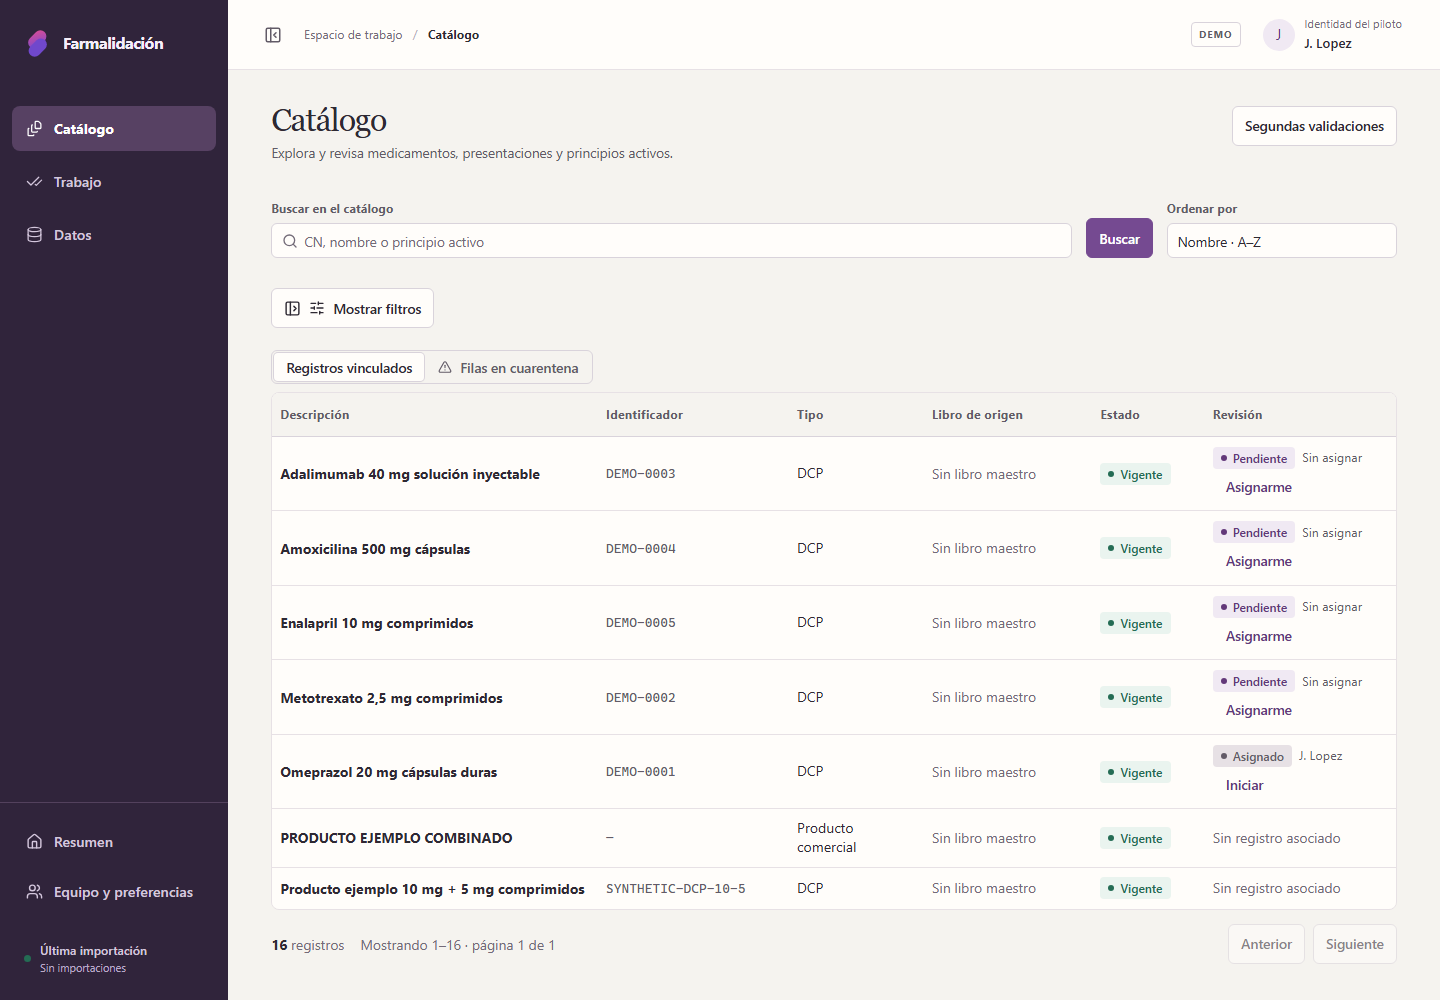
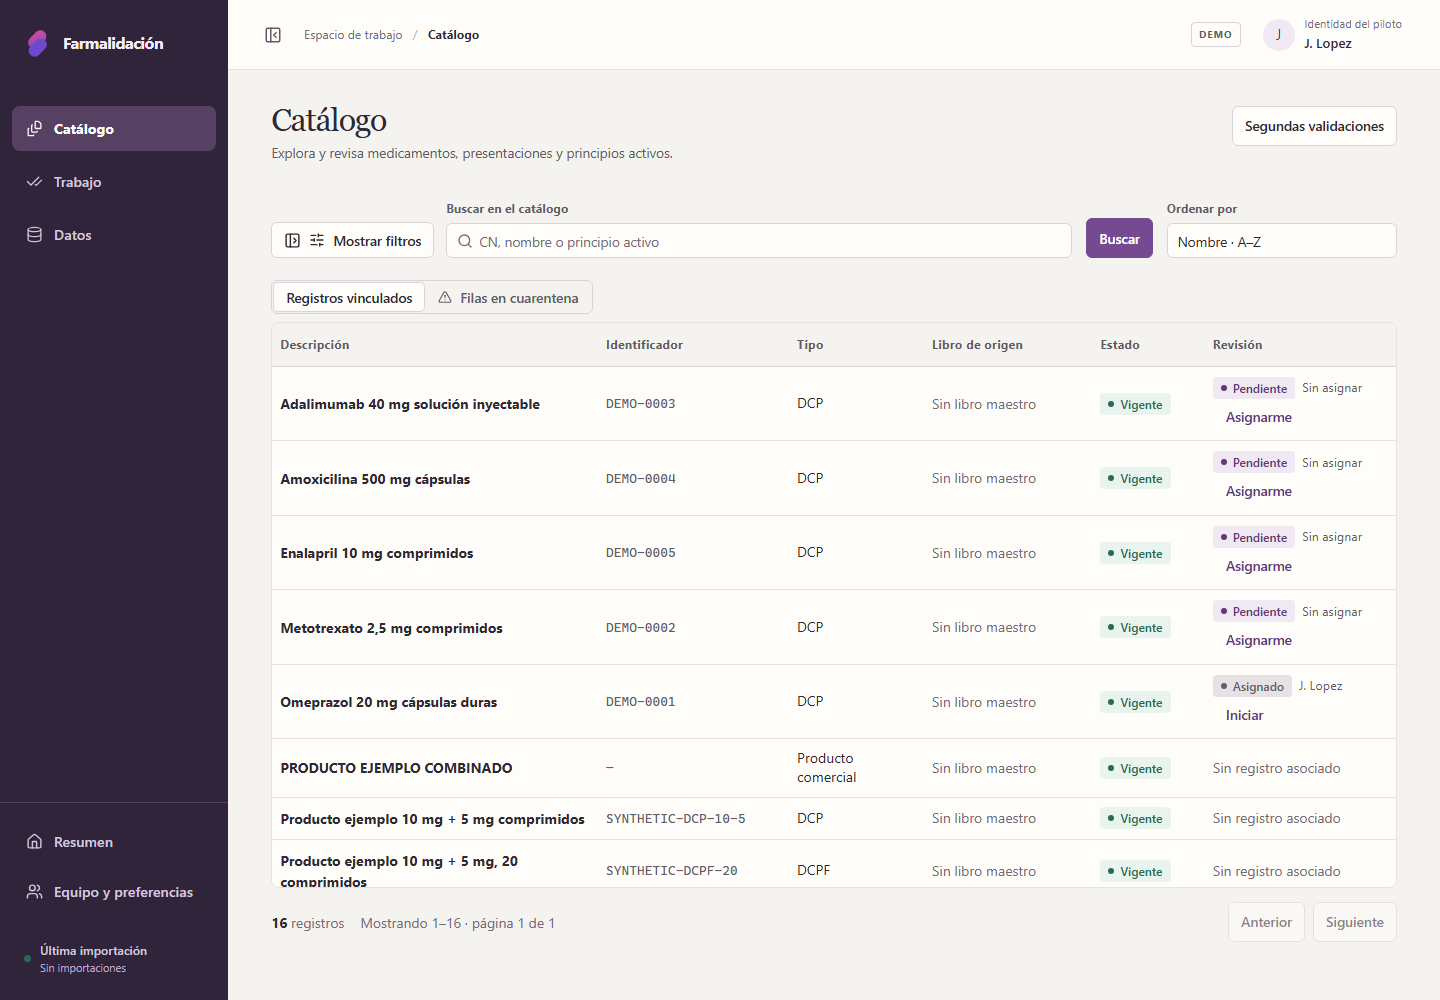
Integrar «Mostrar filtros» en la barra y vigilar los tokens
Con barra de búsqueda, el botón para abrir filtros se coloca en ella:
una sola fila de controles en lugar de un botón aislado; en móvil la
búsqueda va primero y el control segmentado se reparte a lo ancho. El
relleno de la acción principal, la sombra elevada y las cifras pasan a
tokens, y un test impide colores o tamaños literales en la capa común y
las hojas de pantalla migradas.

diff --git a/validador-fichas-tecnicas-repo-kit/frontend/src/ui/components.css b/validador-fichas-tecnicas-repo-kit/frontend/src/ui/components.css
@@ -23,7 +23,7 @@
 .app-shell .page-header .lede { margin: var(--space-1) 0 0; color: var(--ink-soft); font-size: var(--text-sm); }
 .app-shell .page-header .eyebrow { margin: 0 0 var(--space-1); color: var(--ink-faint); font-size: var(--text-xs); font-weight: var(--weight-semibold); letter-spacing: .04em; }
 
-code, kbd, .mono { font-family: var(--font-mono); font-size: .92em; font-variant-numeric: tabular-nums; }
+code, kbd, .mono { font-family: var(--font-mono); font-size: var(--text-code); font-variant-numeric: tabular-nums; }
 .table code { color: var(--ink-soft); background: none; padding: 0; font-size: var(--text-xs); letter-spacing: .01em; }
 
 /* ── Botones ───────────────────────────────────────────────────────────── */
@@ -48,11 +48,8 @@ code, kbd, .mono { font-family: var(--font-mono); font-size: .92em; font-variant
 }
 .app-shell .button:hover:not(:disabled) { border-color: var(--ink-faint); background: var(--canvas); transform: none; }
 .app-shell .button:disabled { opacity: .55; cursor: not-allowed; }
-.app-shell .button--primary,
-.app-shell .button--primary:hover:not(:disabled) { border-color: var(--accent); color: #fff; background: var(--accent); }
-.app-shell .button--primary:hover:not(:disabled) { border-color: var(--accent-strong); background: var(--accent-strong); }
-:root[data-theme='dark'] .app-shell .button--primary { border-color: #74419d; background: #74419d; }
-:root[data-theme='dark'] .app-shell .button--primary:hover:not(:disabled) { border-color: #8650ad; background: #8650ad; }
+.app-shell .button--primary { border-color: var(--accent-fill); color: var(--on-accent); background: var(--accent-fill); }
+.app-shell .button--primary:hover:not(:disabled) { border-color: var(--accent-fill-hover); color: var(--on-accent); background: var(--accent-fill-hover); }
 .app-shell .button--secondary { border-color: var(--line); color: var(--ink); background: var(--surface); }
 .app-shell .button--ghost { border-color: transparent; color: var(--accent-strong); background: transparent; }
 .app-shell .button--ghost:hover:not(:disabled) { border-color: transparent; background: var(--accent-soft); }
@@ -88,7 +85,7 @@ code, kbd, .mono { font-family: var(--font-mono); font-size: .92em; font-variant
   transition: background-color var(--motion-fast) ease, color var(--motion-fast) ease;
 }
 .segmented__option:hover { color: var(--ink); }
-.segmented__option[aria-pressed='true'] { color: var(--ink); background: var(--surface); box-shadow: 0 0 0 1px var(--line), 0 1px 2px rgb(0 0 0 / 6%); }
+.segmented__option[aria-pressed='true'] { color: var(--ink); background: var(--surface); box-shadow: 0 0 0 1px var(--line), var(--shadow-raised); }
 .segmented__count { color: var(--ink-faint); font-variant-numeric: tabular-nums; font-size: var(--text-xs); }
 
 /* ── Distintivos de estado ─────────────────────────────────────────────── */
@@ -190,7 +187,7 @@ code, kbd, .mono { font-family: var(--font-mono); font-size: .92em; font-variant
   box-shadow: none;
 }
 /* Cifras siempre en la letra de interfaz: la de títulos usa numerales de estilo antiguo (el 0 se confunde con la O). */
-.app-shell .page-stat strong { color: var(--ink); font-family: var(--font-ui); font-size: 1.75rem; font-weight: var(--weight-semibold); font-variant-numeric: tabular-nums; line-height: 1; }
+.app-shell .page-stat strong { color: var(--ink); font-family: var(--font-ui); font-size: var(--text-figure); font-weight: var(--weight-semibold); font-variant-numeric: tabular-nums; line-height: 1; }
 .app-shell .page-stat span { color: var(--ink-faint); font-size: var(--text-xs); }
 
 /* ── Estado vacío ilustrado ────────────────────────────────────────────── */
@@ -212,3 +209,17 @@ code, kbd, .mono { font-family: var(--font-mono); font-size: .92em; font-variant
 /* Advertencias: algo que conviene saber o hacer, no un fallo. */
 .app-shell .alert--warning { color: var(--warn); background: var(--warn-soft); }
 .app-shell .state--warning { border: 1px solid color-mix(in srgb, var(--warn) 25%, transparent); color: var(--warn); background: var(--warn-soft); }
+
+/* Barra de herramientas con «Mostrar filtros» integrado. */
+.app-shell .filter-workspace__toolbar { display: flex; align-items: flex-end; gap: var(--space-3); }
+.app-shell .filter-workspace__toolbar > form { flex: 1; min-width: 0; margin: 0; }
+.app-shell .filter-workspace__toolbar > .filter-panel__reopen { flex: none; height: 36px; min-height: 0; }
+.app-shell .filter-workspace--closed > .filter-sidebar:not(:has(.filter-panel__reopen)) { display: none; }
+@media (max-width: 760px) {
+  .app-shell .filter-workspace__toolbar { flex-direction: column-reverse; align-items: stretch; }
+  .app-shell .filter-workspace__toolbar > .filter-panel__reopen { align-self: flex-start; }
+}
+@media (max-width: 520px) {
+  .segmented { display: flex; width: 100%; }
+  .segmented__option { flex: 1 1 0; justify-content: center; padding-inline: var(--space-2); text-align: center; }
+}

diff --git a/validador-fichas-tecnicas-repo-kit/frontend/src/components/FilterWorkspace.tsx b/validador-fichas-tecnicas-repo-kit/frontend/src/components/FilterWorkspace.tsx
@@ -61,9 +61,27 @@ export function FilterWorkspace({
     })
   }
 
+  const reopen = !open && (
+    <button
+      ref={reopenButton}
+      type='button'
+      className='button filter-panel__reopen'
+      onClick={toggle}
+      aria-controls={panelId}
+      aria-expanded='false'
+    >
+      <PanelLeftOpen size={17} aria-hidden='true' />
+      <SlidersHorizontal size={16} aria-hidden='true' />
+      <span>Mostrar filtros</span>
+      {activeCount > 0 && <span className='filter-panel__badge'>{activeCount}</span>}
+    </button>
+  )
+
   return (
     <div className={`filter-workspace${open ? '' : ' filter-workspace--closed'} ${className}`.trim()}>
-      {toolbar && <div className='filter-workspace__toolbar'>{toolbar}</div>}
+      {/* Con barra de búsqueda, «Mostrar filtros» se integra en ella: una sola
+          fila de controles en lugar de un botón aislado encima de los resultados. */}
+      {toolbar && <div className='filter-workspace__toolbar'>{toolbar && reopen}{toolbar}</div>}
       <aside className='filter-sidebar'>
           <section id={panelId} className='filter-panel' aria-label={title} hidden={!open}>
             <div className='filter-panel__head'>
@@ -87,21 +105,7 @@ export function FilterWorkspace({
             {activeCount > 0 && <p className='filter-panel__count' aria-live='polite'>{activeCount} {activeCount === 1 ? 'filtro activo' : 'filtros activos'}</p>}
             <div className='filter-panel__body'>{filters}</div>
           </section>
-        {!open && (
-          <button
-            ref={reopenButton}
-            type='button'
-            className='button filter-panel__reopen'
-            onClick={toggle}
-            aria-controls={panelId}
-            aria-expanded='false'
-          >
-            <PanelLeftOpen size={17} aria-hidden='true' />
-            <SlidersHorizontal size={16} aria-hidden='true' />
-            <span>Mostrar filtros</span>
-            {activeCount > 0 && <span className='filter-panel__badge'>{activeCount}</span>}
-          </button>
-        )}
+        {!toolbar && reopen}
       </aside>
       <div className='filter-workspace__content'>
         {children}

diff --git a/validador-fichas-tecnicas-repo-kit/frontend/src/ui/tokens.css b/validador-fichas-tecnicas-repo-kit/frontend/src/ui/tokens.css
@@ -20,6 +20,8 @@
   --text-lg: 1.08rem;
   --text-xl: 1.38rem;
   --text-title: clamp(1.8rem, 2.2vw, 2.2rem);
+  --text-figure: 1.75rem;
+  --text-code: .92em;
   --weight-regular: 400;
   --weight-medium: 550;
   --weight-semibold: 650;
@@ -37,6 +39,10 @@
   --accent: #754a91;
   --accent-strong: #623879;
   --accent-soft: #f0e9f3;
+  /* Relleno de la acción principal: en oscuro, más saturado que el acento de texto. */
+  --accent-fill: var(--accent);
+  --accent-fill-hover: var(--accent-strong);
+  --on-accent: #fff;
   --rail: #30243b;
   --focus-ring: rgb(104 67 152 / 26%);
   --success: #246c54;
@@ -58,6 +64,7 @@
   --radius-small: 4px;
   --shadow: 0 1px 2px rgb(32 25 42 / 4%);
   --shadow-hover: 0 8px 22px rgb(55 35 62 / 8%);
+  --shadow-raised: 0 1px 2px rgb(0 0 0 / 6%);
 
   /* Espacio */
   --space-1: .25rem;
@@ -106,6 +113,8 @@
   --accent: #bc92d7;
   --accent-strong: #d9b9eb;
   --accent-soft: #3a2b45;
+  --accent-fill: #74419d;
+  --accent-fill-hover: #8650ad;
   --rail: #241b2e;
   --focus-ring: rgb(196 151 239 / 45%);
   --success: #8edbb6;

diff --git a/validador-fichas-tecnicas-repo-kit/frontend/src/styles.test.ts b/validador-fichas-tecnicas-repo-kit/frontend/src/styles.test.ts
@@ -22,6 +22,18 @@ describe('tokens', () => {
   })
 })
 
+describe('capa común y hojas migradas', () => {
+  // El código nuevo sólo usa tokens: un color o un tamaño escrito a mano es
+  // exactamente la deriva que llevó a cinco paletas superpuestas.
+  const migrated = ['src/ui/components.css', 'src/screens/catalog.css', 'src/screens/work.css', 'src/screens/sources.css']
+  it.each(migrated)('%s no escribe colores ni tamaños de letra literales', (file) => {
+    const css = readFileSync(file, 'utf8').replace(/\/\*[\s\S]*?\*\//g, '')
+    expect(css).not.toMatch(/#[0-9a-f]{3,8}\b/i)
+    expect(css).not.toMatch(/\brgba?\(/)
+    expect(css).not.toMatch(/font-size:\s*[0-9.]+(rem|px|em)/)
+  })
+})
+
 describe('sistema visual profesional', () => {
   it('centraliza semántica y usa acento sólido en la acción primaria', () => {
     for (const token of ['--accent:', '--success:', '--warn:', '--danger:', '--info:', '--space-4:', '--radius:', '--text-title:', '--z-popover:']) {

diff --git a/validador-fichas-tecnicas-repo-kit/frontend/src/screens/work.css b/validador-fichas-tecnicas-repo-kit/frontend/src/screens/work.css
@@ -28,7 +28,7 @@
 .app-shell .queue-list__actions .button:last-child:hover { background: var(--accent-soft); }
 
 /* Novedades CIMA: total del histórico como cifra, no como tarjeta. */
-.app-shell .maintenance-history-search__total { padding: 0; border: 0; background: none; color: var(--ink); font-size: 1.75rem; font-weight: var(--weight-semibold); font-variant-numeric: tabular-nums; line-height: 1; text-align: right; }
+.app-shell .maintenance-history-search__total { padding: 0; border: 0; background: none; color: var(--ink); font-size: var(--text-figure); font-weight: var(--weight-semibold); font-variant-numeric: tabular-nums; line-height: 1; text-align: right; }
 .app-shell .maintenance-history-search__total span { display: block; margin-top: 4px; color: var(--ink-faint); font-size: var(--text-xs); font-weight: var(--weight-regular); }
 @media (max-width: 1280px) {
   .app-shell .queue-list > li { grid-template-columns: auto minmax(0, 1fr) 132px; }

diff --git a/validador-fichas-tecnicas-repo-kit/frontend/src/screens/catalog.css b/validador-fichas-tecnicas-repo-kit/frontend/src/screens/catalog.css
@@ -20,3 +20,4 @@
 .app-shell .catalog-col-name { width: 29%; }
 .app-shell .catalog-col-review { width: 17%; }
 .app-shell .catalog-review-cell__assignment { flex-wrap: nowrap; white-space: nowrap; }
+.app-shell .catalog-filter-workspace .filter-workspace__toolbar > .catalog-search-toolbar { margin-bottom: 0; padding-bottom: 0; border-bottom: 0; }
